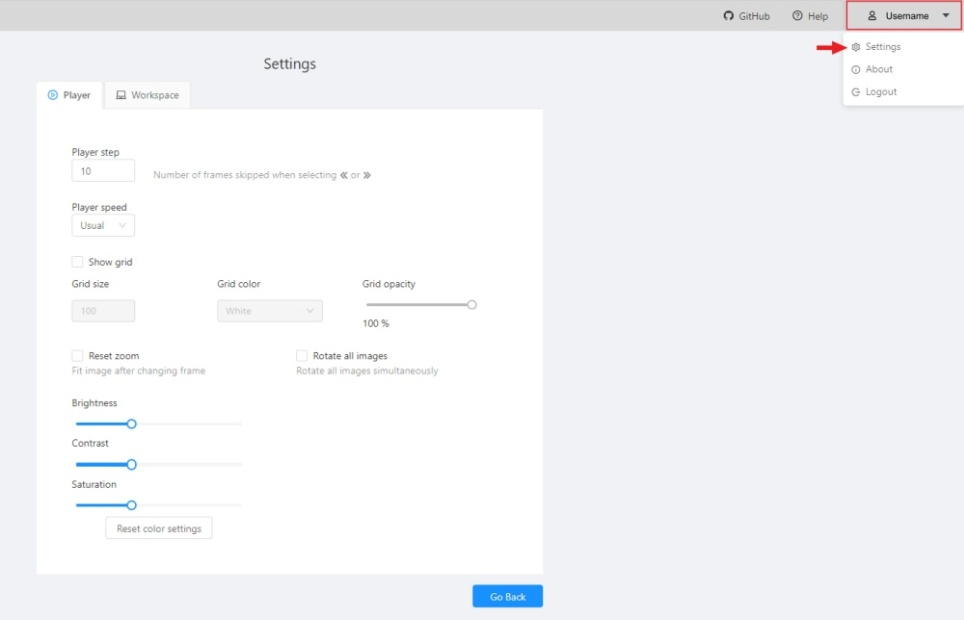
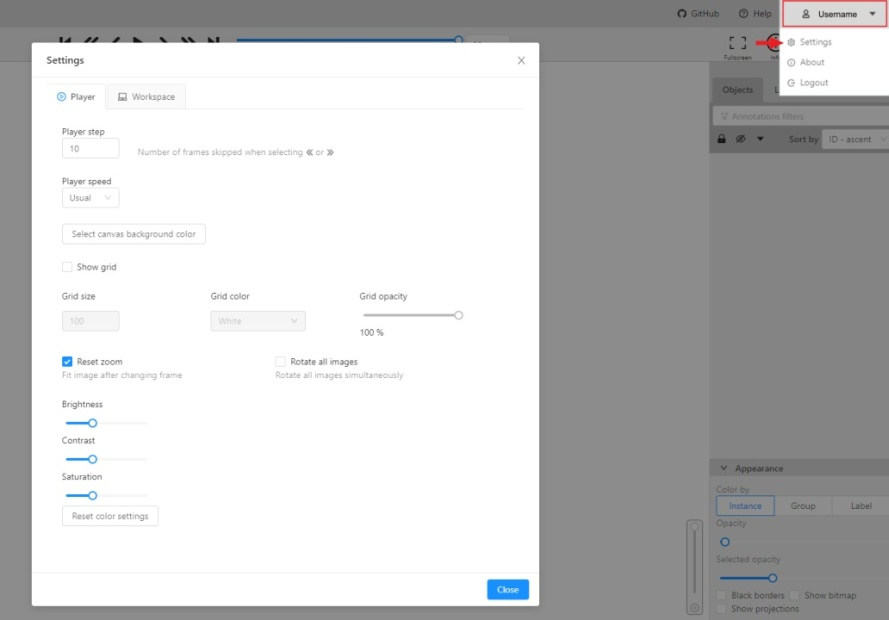
Update item Annotation with tag in User Guide (#1957)
* Update userguide.md and images

* add link in userguide.md

diff --git a/cvat/apps/documentation/user_guide.md b/cvat/apps/documentation/user_guide.md
@@ -639,6 +639,7 @@ To open the settings open the user menu in the header and select the settings it
 In tab ``Player`` you can:
 -   Control step of ``C`` and ``V`` shortcuts.
 -   Control speed of ``Space``/``Play`` button.
+-   Select canvas background color. You can choose a background color or enter manually (in RGB or HEX format).
 -   Show ``Grid``, change grid size, choose color and transparency:
 
     ![](static/documentation/images/image068_mapillary_vistas.jpg)
@@ -799,7 +800,7 @@ Switching between user interface modes.
 |Icon                                         |Description   |Links to section  |
 |--                                           |--            |--                |
 |![](static/documentation/images/image167.jpg)|``Rectangle``|[Shape mode](#shape-mode-basics); [Track mode](#track-mode-basics);<br/> [Drawing by 4 points](#annotation-with-rectangle-by-4-points)|
-|![](static/documentation/images/image168.jpg)|``Polygon``  |[Annotation with polygons](#annotation-with-polygons)  |
+|![](static/documentation/images/image168.jpg)|``Polygon``  |[Annotation with polygons](#annotation-with-polygons); [Track mode with polygons](#track-mode-with-polygons)  |
 |![](static/documentation/images/image169.jpg)|``Polyline`` |[Annotation with polylines](#annotation-with-polylines)|
 |![](static/documentation/images/image170.jpg)|``Points``   |[Annotation with points](#annotation-with-points)      |
 |![](static/documentation/images/image176.jpg)|``Cuboid``   |[Annotation with cuboids](#annotation-with-cuboids)    |
@@ -1271,20 +1272,23 @@ Simply drag the faces to move them independently from the rest of the cuboid.
 
 ![](static/documentation/images/gif020_mapillary_vistas.gif)
 
-You can also use cuboids in track mode, similar to rectangles in track mode ([basics](#track-mode-basics) and [advanced](#track-mode-advanced))
+You can also use cuboids in track mode, similar to rectangles in track mode ([basics](#track-mode-basics) and [advanced](#track-mode-advanced)) or [Track mode with polygons](#track-mode-with-polygons)
 
 ## Annotation with Tags
 
-Used to annotate frames, does not have a shape in the workspace.
-Before you start, you have to make sure that Tag is selected.
+It is used to annotate frames, tags are not displayed in the workspace.
+Before you start, open the drop-down list in the top panel and select ``Tag annotation``.
+
+![](static/documentation/images/image183.jpg)
+
+The objects sidebar will be replaced with a special panel for working with tags.
+Here you can select a label for a tag and add it by clicking on the ``Add tag`` button.
+You can also customize hotkeys for each label.
 
 ![](static/documentation/images/image181.jpg)
 
-Click tag to create. You can work with Tag only on the sidebar.
-You can use the lock function and change label and attribute.
-Other functions such as propagate, make a copy and remove are available in the action menu.
-
-![](static/documentation/images/image135.jpg)
+If you need to use only one label for one frame, then enable the ``Automatically go to the next frame``
+checkbox, then after you add the tag the frame will automatically switch to the next.
 
 ## Track mode with polygons
 
@@ -1491,6 +1495,7 @@ Many UI elements have shortcut hints. Put your pointer to a required element to 
 |                                | _Modes_                                                                         |
 | ``N``                          | Repeat the latest procedure of drawing with the same parameters                 |
 | ``M``                          | Activate or deactivate mode to merging shapes                                   |
+| ``Alt+M``                      | Activate or deactivate mode to spliting shapes                                  |
 | ``G``                          | Activate or deactivate mode to grouping shapes                                  |
 | ``Shift+G``                    | Reset group for selected shapes (in group mode)                                 |
 | ``Esc``                        | Cancel any active canvas mode                                                   |
